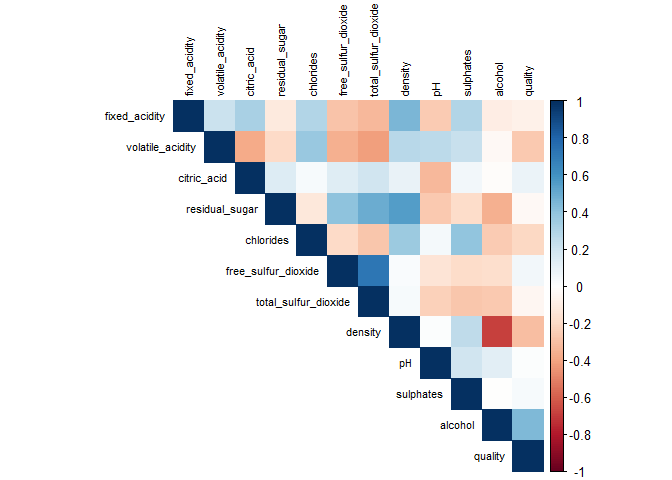
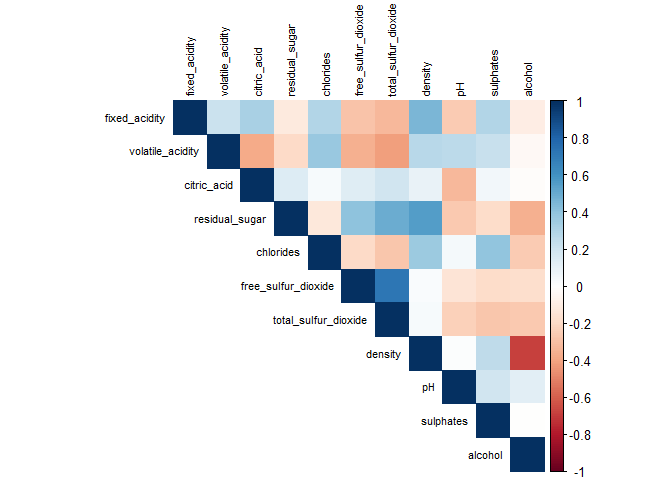
update

Changed region(s): [[0.1562, 0.0, 0.8125, 0.9688], [0.7812, 0.125, 0.8125, 0.1875]]

diff --git a/README.md b/README.md
@@ -250,10 +250,20 @@ summary(wine)
 
 ``` r
 library(ggplot2)
+# Ensure quality is treated as an ordered factor
+wine$quality <- factor(wine$quality, ordered = TRUE, levels = sort(unique(wine$quality)))
+
+# Bar plot with visible x-axis labels
 ggplot(wine, aes(x = quality, fill = type)) +
   geom_bar(position = "dodge") +
-  theme_minimal() +
-  labs(title = "Wine Quality Distribution by Type", x = "Quality", y = "Count")
+  theme_minimal(base_size = 14) +
+  labs(title = "Distribution of Wine Quality Ratings", x = "Wine Quality", y = "Count") +
+  scale_x_discrete(drop = FALSE) +  # prevent dropping levels
+  theme(
+    axis.text.x = element_text(angle = 0, vjust = 0.5),
+    axis.title.x = element_text(margin = margin(t = 10))
+  ) +
+  scale_fill_manual(values = c("red" = "tomato", "white" = "lightgoldenrod"))
 ```
 
 ![](README_files/figure-gfm/unnamed-chunk-7-1.png)<!-- -->
@@ -280,11 +290,15 @@ library(dplyr)
 
 ``` r
 # Alcohol vs. Quality
-wine %>%
-  ggplot(aes(x = quality, y = alcohol, fill = type)) +
+# Convert quality to an ordered factor
+wine$quality <- factor(wine$quality, ordered = TRUE)
+
+# Boxplot of Alcohol by Quality and Type
+ggplot(wine, aes(x = quality, y = alcohol, fill = type)) +
   geom_boxplot() +
   theme_minimal() +
-  labs(title = "Alcohol Content vs. Wine Quality", x = "Quality", y = "Alcohol")
+  labs(title = "Alcohol Content vs. Wine Quality", x = "Wine Quality", y = "Alcohol (%)") +
+  scale_fill_manual(values = c("red" = "tomato", "white" = "lightgoldenrod"))
 ```
 
 ![](README_files/figure-gfm/unnamed-chunk-8-1.png)<!-- -->
@@ -321,9 +335,15 @@ library(corrplot)
     ## corrplot 0.95 loaded
 
 ``` r
-corr_matrix <- cor(wine %>% select(-type))
+# Select only numeric columns for correlation matrix
+numeric_features <- wine %>%
+  select(where(is.numeric))
 
-corrplot(corr_matrix, method = "color", type = "upper", tl.cex = 0.7, tl.col = "black")
+# Compute correlation matrix
+corr_matrix <- cor(numeric_features)
+
+# Plot correlation heatmap
+corrplot(corr_matrix, method = "color", type = "upper", tl.cex = 0.7, tl.col = "black", addCoef.col = NULL)
 ```
 
 ![](README_files/figure-gfm/unnamed-chunk-10-1.png)<!-- -->
@@ -363,14 +383,14 @@ wine %>%
 
     ## # A tibble: 7 × 2
     ##   quality shapiro_p
-    ##     <dbl>     <dbl>
-    ## 1       3  8.99e- 1
-    ## 2       4  1.15e- 5
-    ## 3       5  1.68e-33
-    ## 4       6  4.52e-24
-    ## 5       7  2.47e-10
-    ## 6       8  1.28e- 8
-    ## 7       9  2.01e- 2
+    ##   <ord>       <dbl>
+    ## 1 3        8.99e- 1
+    ## 2 4        1.15e- 5
+    ## 3 5        1.68e-33
+    ## 4 6        4.52e-24
+    ## 5 7        2.47e-10
+    ## 6 8        1.28e- 8
+    ## 7 9        2.01e- 2
 
 ``` r
 # Check homogeneity of variances
@@ -396,7 +416,7 @@ kruskal_result
     ## data:  alcohol by as.factor(quality)
     ## Kruskal-Wallis chi-squared = 1397.3, df = 6, p-value < 2.2e-16
 
-Shapiro - Wilk test - tests whther the data is normally distributed. Since our p\<0.05 and we have ordinal data type, we need to perform some non-parametric tests like Spearman Rank’s correlation and Kruskal-Wallis test to compare median across multiple groups. Since our p-value \< 0.05, we can reject our null hypothesis. Therefore we have enough evidence to support the hypothesis that alcohol content differs across quality scores.
+Shapiro - Wilk test - tests whther the data is normally distributed. Since our p-value is less than 0.05 and we have ordinal data type, we need to perform some non-parametric tests like Spearman Rank’s correlation and Kruskal-Wallis test to compare median across multiple groups. Since our p-value is less than 0.05, we can reject our null hypothesis. Therefore we have enough evidence to support the hypothesis that alcohol content differs across quality scores.
 
 ### Hypothesis 2
 
@@ -406,23 +426,25 @@ Shapiro - Wilk test - tests whther the data is normally distributed. Since our p
 **Test:** Correlation Test
 
 ``` r
-cor.test(wine$volatile_acidity, wine$quality, method = "spearman")
+# Spearman correlation test between volatile_acidity and wine quality
+cor.test(wine$volatile_acidity, as.numeric(as.character(wine$quality)), method = "spearman")
 ```
 
-    ## Warning in cor.test.default(wine$volatile_acidity, wine$quality, method =
-    ## "spearman"): Cannot compute exact p-value with ties
+    ## Warning in cor.test.default(wine$volatile_acidity,
+    ## as.numeric(as.character(wine$quality)), : Cannot compute exact p-value with
+    ## ties
 
     ## 
     ##  Spearman's rank correlation rho
     ## 
-    ## data:  wine$volatile_acidity and wine$quality
+    ## data:  wine$volatile_acidity and as.numeric(as.character(wine$quality))
     ## S = 5.7491e+10, p-value < 2.2e-16
     ## alternative hypothesis: true rho is not equal to 0
     ## sample estimates:
     ##        rho 
     ## -0.2578059
 
-Since our p-vale \< 0.05, we can reject our null hypothesis. Therefore, we have enough evidence to support our hypothesis that volatile acidity negatively affects wine quality.
+Since our p-value is less than 0.05, we can reject our null hypothesis. Therefore, we have enough evidence to support our hypothesis that volatile acidity negatively affects wine quality.
 
 # Final Business Insights
 
